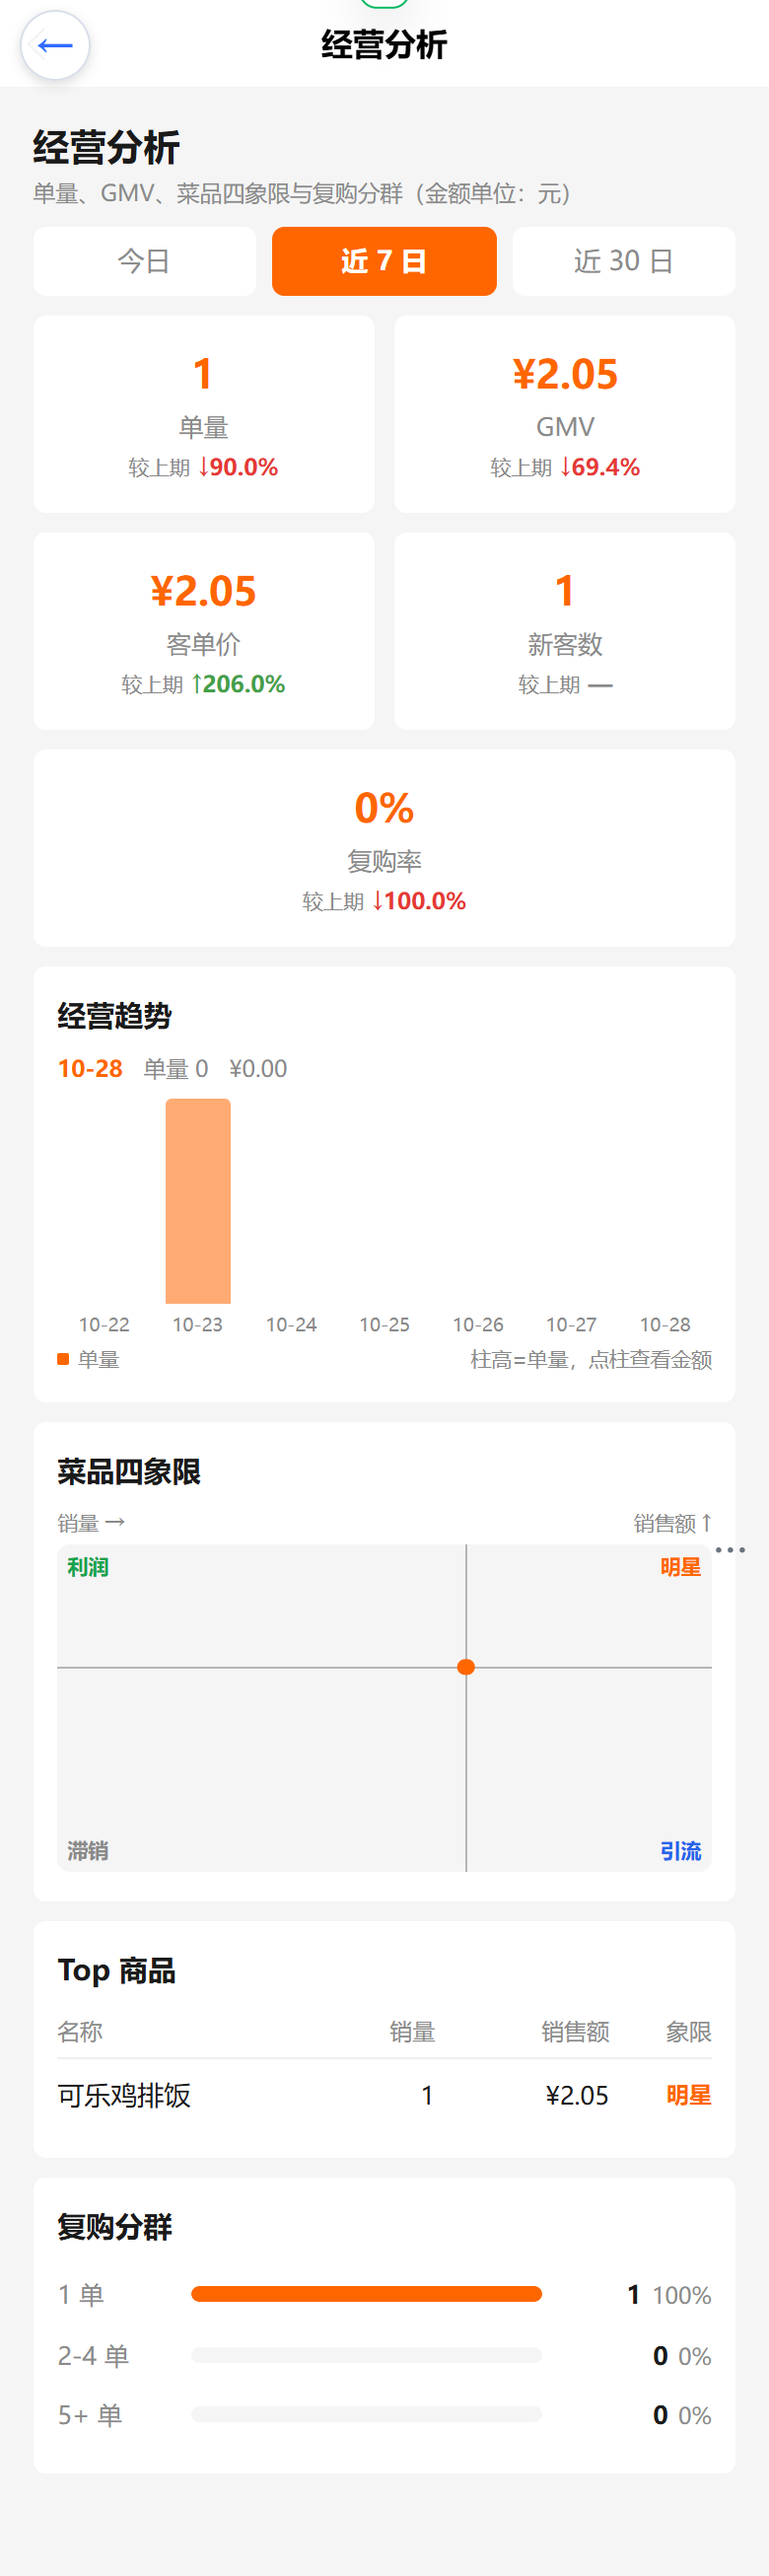
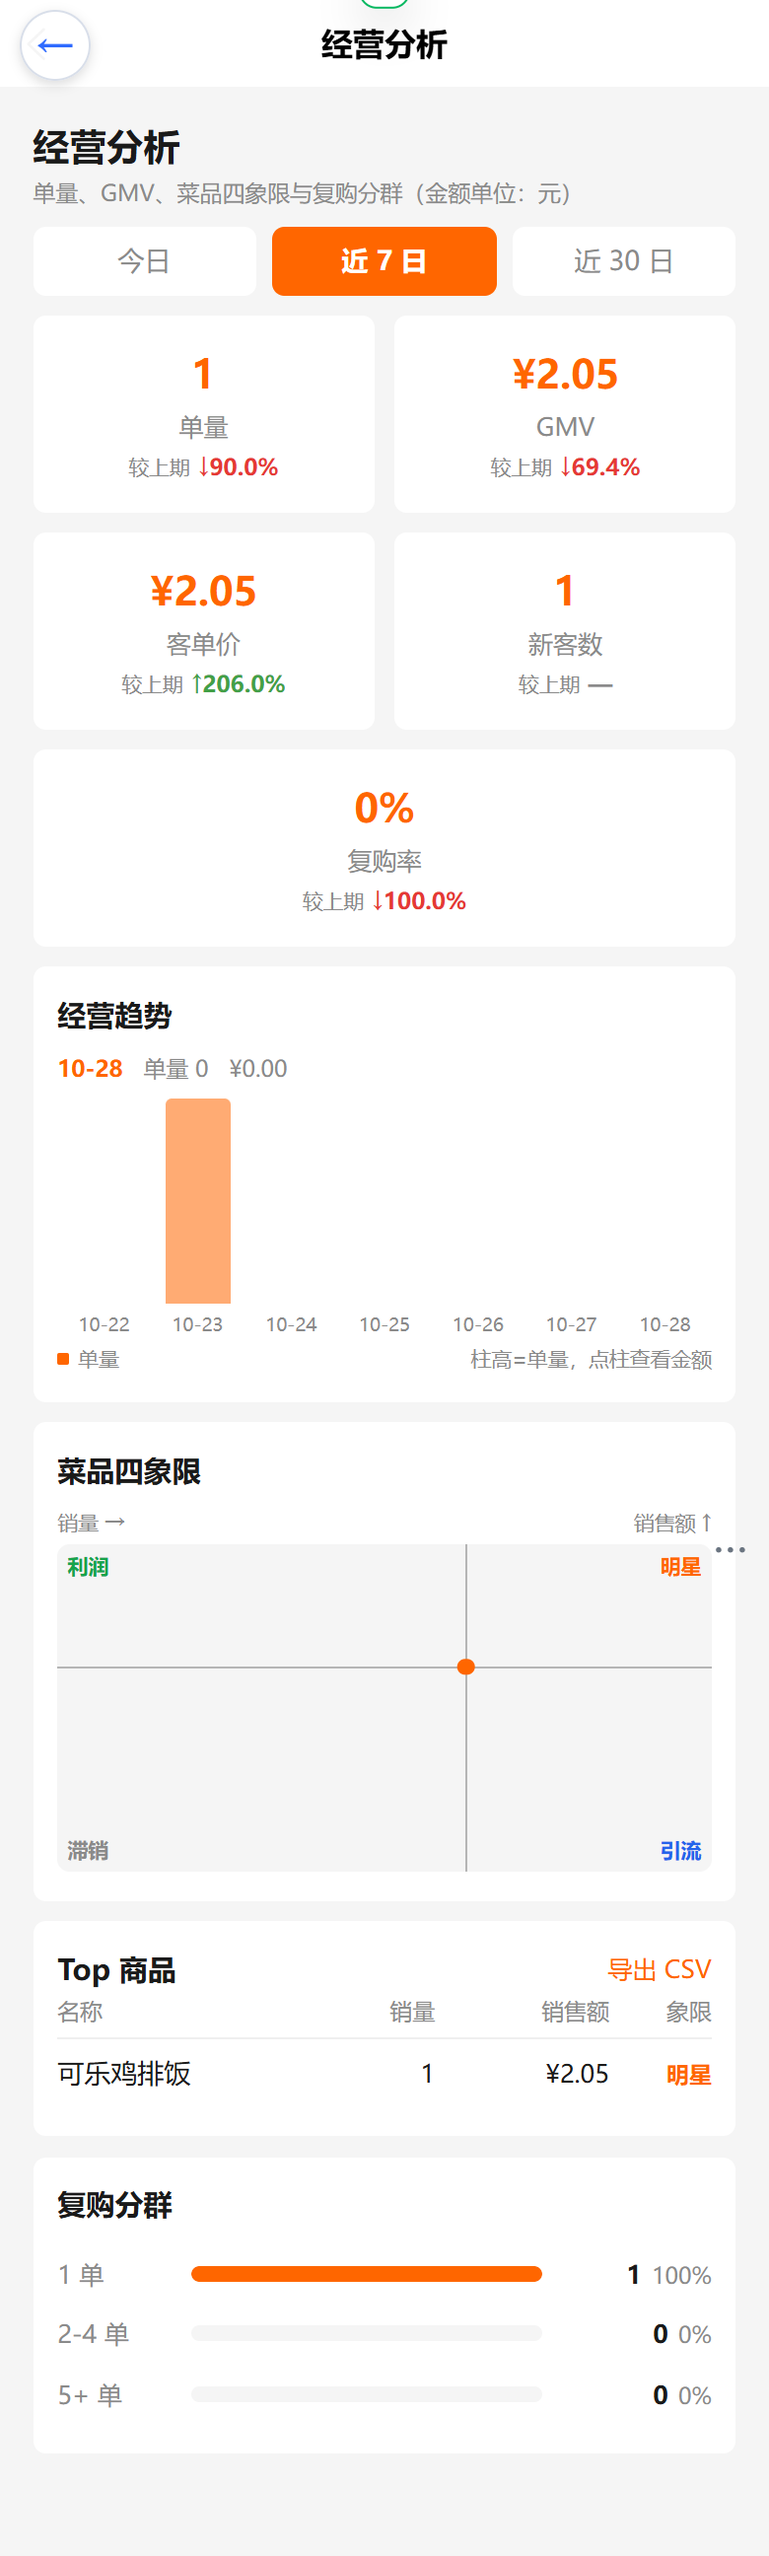
docs(waimai): P4-1-4 导出 CSV 取证（含样例）

diff --git a/scripts/_shot_sales_bi.py b/scripts/_shot_sales_bi.py
@@ -78,6 +78,18 @@ with sync_playwright() as p:
         print(f"0{idx + 3} state", {**state(pg), "range": name})
         pg.screenshot(path=os.path.join(OUT, f"{idx + 1:02d}-admin-sales-{name}.png"), full_page=True)
 
+    # P4-1-4 导出 CSV：捕获下载并校验内容
+    with pg.expect_download(timeout=20000) as dl_info:
+        pg.click("text=导出 CSV", timeout=8000)
+    dl = dl_info.value
+    csv_path = os.path.join(OUT, "05-admin-sales-products.csv")
+    dl.save_as(csv_path)
+    with open(csv_path, encoding="utf-8-sig") as f:
+        lines = [ln.rstrip("\n") for ln in f.readlines()]
+    print("export state", {"file": dl.suggested_filename, "rows": len(lines) - 1,
+                           "header": lines[0] if lines else "", "first": lines[1] if len(lines) > 1 else ""})
+    assert len(lines) > 1 and lines[0].count(",") == 3, "CSV 内容异常"
+
     browser.close()
 
 print("SHOTS DONE ->", OUT)
